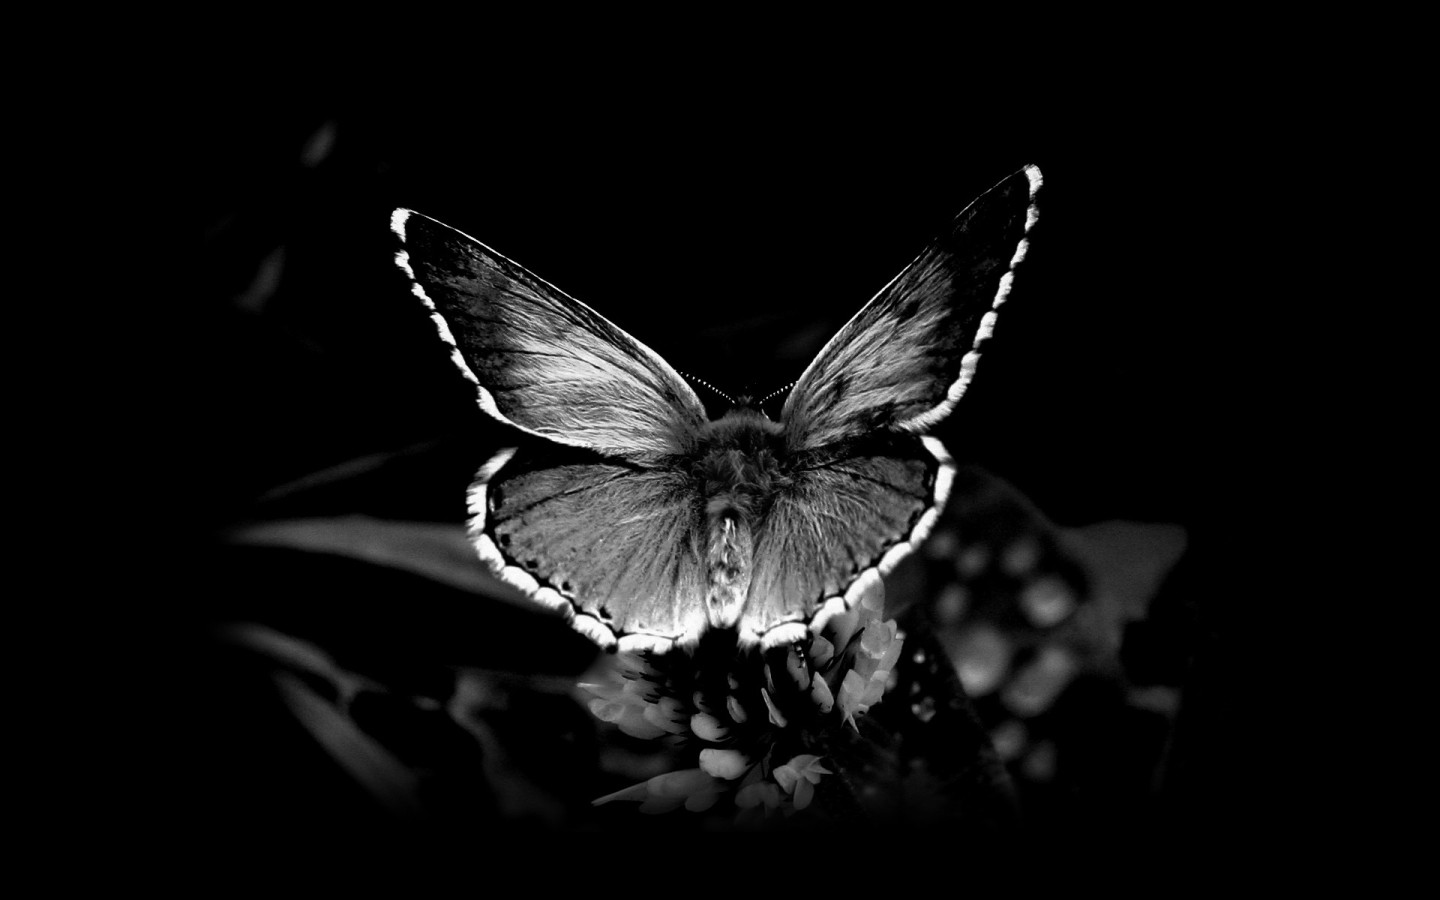
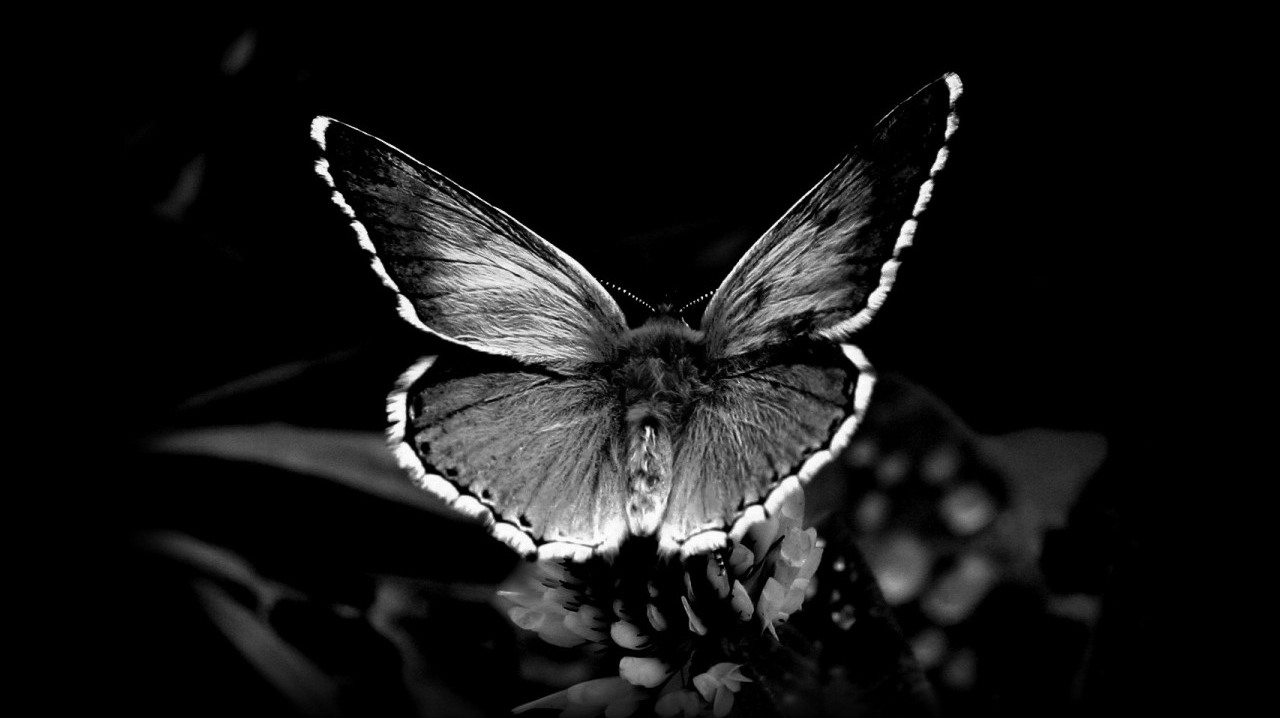
ready for secons submit.

diff --git a/index.html b/index.html
@@ -13,6 +13,8 @@
 
     <!-- regular styling -->
     <link rel="stylesheet" href="css/style.css">
+    <!-- font awesome -->
+    <script src="https://use.fontawesome.com/f9e92ea292.js"></script>
     <title>Portfolio</title>
 </head>
 
@@ -43,41 +45,75 @@
     <!-- end of header -->
     <!-- first container -->
     <section class="container title">
-        <h1>Ahmad Hasan</h1>
-        <h5>Front-end developer</h5>
-        <hr>
-        <img src="imgs/header.jpg" class="img-fluid" alt="">
+        <div class="row">
+            <div class="col-12 col-sm-12 col-md-12 col-lg-12 col-xl-12">
+                <h1>Ahmad Hasan</h1>
+                <h5>Front-end developer</h5>
+                <hr>
+            </div>
+            <div class="col-12 col-sm-12 col-md-12 col-lg-12 col-xl-12">
+                <picture>
+                    <source media="(max-width: 20em)" srcset="imgs/headermedium.jpg" alt="header Image" class="img-fluid">
+                    <source media="(max-width: 40em)" srcset="imgs/headerlarge.jpg" alt="header Image" class="img-fluid">
+                    <img src="imgs/headersmall.jpg" alt="header Image" class="img-fluid">
+                </picture>
+            </div>
+        </div>
     </section>
     <!-- end of first contianer -->
     <!-- featured work -->
-    <section id="gallery" class="container featuredWork">
-        <h1>Featured Work</h1>
-        <!-- grid system -->
+    <section id="gallery" class="container featured-work">
         <div class="row">
+            <div class="col-12 col-sm-12 col-md-12 col-lg-12 col-xl-12">
+                <h1>Featured Work</h1>
+            </div>
             <div class="col-12 col-sm-12 col-md-4 col-lg-4 col-xl-4">
-                <img src="imgs/1.jpg" alt="black flower" class="img-fluid">
+                <picture>
+                    <source media="(max-width: 20em)" srcset="imgs/1.jpg" alt="header Image" class="img-fluid">
+                    <img src="imgs/1-small.jpg" alt="butterfly" class="img-fluid">
+                </picture>
                 <h2>BUtterfly</h2>
                 <p>This is a dummy text describing a dummy project</p>
             </div>
             <div class="col-12 col-sm-12 col-md-4 col-lg-4 col-xl-4">
-                <img src="imgs/2.jpg" alt="the matrix" class="img-fluid">
+                <picture>
+                    <source media="(max-width: 20em)" srcset="imgs/2.jpg" alt="header Image" class="img-fluid">
+                    <img src="imgs/2-small.jpg" alt="The matrix" class="img-fluid">
+                </picture>
                 <h2>The Matrix</h2>
                 <p>This is a dummy text describing a dummy project</p>
             </div>
             <div class="col-12 col-sm-12 col-md-4 col-lg-4 col-xl-4">
-                <img src="imgs/3.jpg" alt="darksiders" class="img-fluid">
+                <picture>
+                    <source media="(max-width: 20em)" srcset="imgs/3.jpg" alt="header Image" class="img-fluid">
+                    <img src="imgs/3-small.jpg" alt="darksiders" class="img-fluid">
+                </picture>
                 <h2>Darksiders</h2>
                 <p>This is a dummy text describing a dummy project</p>
             </div>
         </div>
-        <!-- end of grid system -->
+        <!-- footer -->
+        <div class="row">
+            <div class="col-12 col-sm-12 col-md-12 col-lg-12 col-xl-12">
+                <footer>
+                    <div class="row">
+                        <div class="col-12 col-sm-12 col-md-4 col-lg-4 col-xl-4">
+                            <div class="contact-icons">
+                                <a href="https://www.github.com/tennoz"><i class="fa fa-github fa-3x" aria-hidden="true"></i></a>
+                                <a href="https://www.linkedin.com/in/ahmadhmoustafa/"><i class="fa fa-linkedin fa-3x" aria-hidden="true"></i></a>
+                            </div>
+                        </div>
+                        <div class="col-12 col-sm-12 col-md-4 col-lg-4 col-xl-4">
+                            <p>All rights reserved</p>
+                        </div>
+                    </div>
+                </footer>
+            </div>
+        </div>
+        <!-- end of footer -->
     </section>
     <!-- end of featured work -->
-    <!-- footer -->
-    <footer>
-        <p>All rights reserved</p>
-    </footer>
-    <!-- end of footer -->
+
     <!-- scripts -->
     <script src="js/jquery.min.js"></script>
     <script src="https://cdnjs.cloudflare.com/ajax/libs/popper.js/1.11.0/umd/popper.min.js" integrity="sha384-b/U6ypiBEHpOf/4+1nzFpr53nxSS+GLCkfwBdFNTxtclqqenISfwAzpKaMNFNmj4" crossorigin="anonymous"></script>

diff --git a/css/style.css b/css/style.css
@@ -12,7 +12,6 @@ header {
 
 header .navbar-brand img {
     max-width: 100%;
-    height: auto;
 }
 
 
@@ -25,11 +24,11 @@ header .navbar-brand img {
 }
 
 .title h1 {
-    font-family: 'Raleway', sans-serif;
+    font-family: "Raleway", sans-serif;
 }
 
 .title h5 {
-    font-family: 'Ubutnu', sans-serif;
+    font-family: "Ubutnu", sans-serif;
 }
 
 .title hr {
@@ -38,19 +37,18 @@ header .navbar-brand img {
 
 .title img {
     width: 100%;
-    height: 450px;
+    height: auto;
 }
 
 
 /* Featured Work */
 
-.featuredWork {
+.featured-work {
     padding-top: 30px;
 }
 
-.featuredWork img {
+.featured-work img {
     width: 100%;
-    height: 200px;
     padding-bottom: 20px;
     transition: 1s;
     -webkit-transition: 1s ease-in-out;
@@ -58,7 +56,7 @@ header .navbar-brand img {
     -o-transition: 1s ease-in-out;
 }
 
-.featuredWork img:hover {
+.featured-work img:hover {
     transform: scale(1.1);
     -webkit-transform: scale(1.1);
     -ms-transform: scale(1.1);
@@ -66,19 +64,13 @@ header .navbar-brand img {
     -o-transform: scale(1.1);
 }
 
-.featuredWork h1 {
+.featured-work h1 {
     color: #7d97ad;
 }
 
-.featuredWork h2,
+.featured-work h2,
 p {
     text-align: center;
-}
-
-@media only screen and (max-width: 576px) {
-    .featuredWork img {
-        height: auto;
-    }
 }
 
 
@@ -87,11 +79,15 @@ p {
 footer {
     background: #2d3c49;
     color: white;
-    text-align: center;
     padding: 5px;
 }
 
 footer p {
     padding-top: 10px;
-    font-family: 'Ubuntu', sans-serif;
+    font-family: "Ubuntu", sans-serif;
+}
+
+.contact-icons a {
+    padding-top: 20px;
+    margin-left: 30px;
 }
